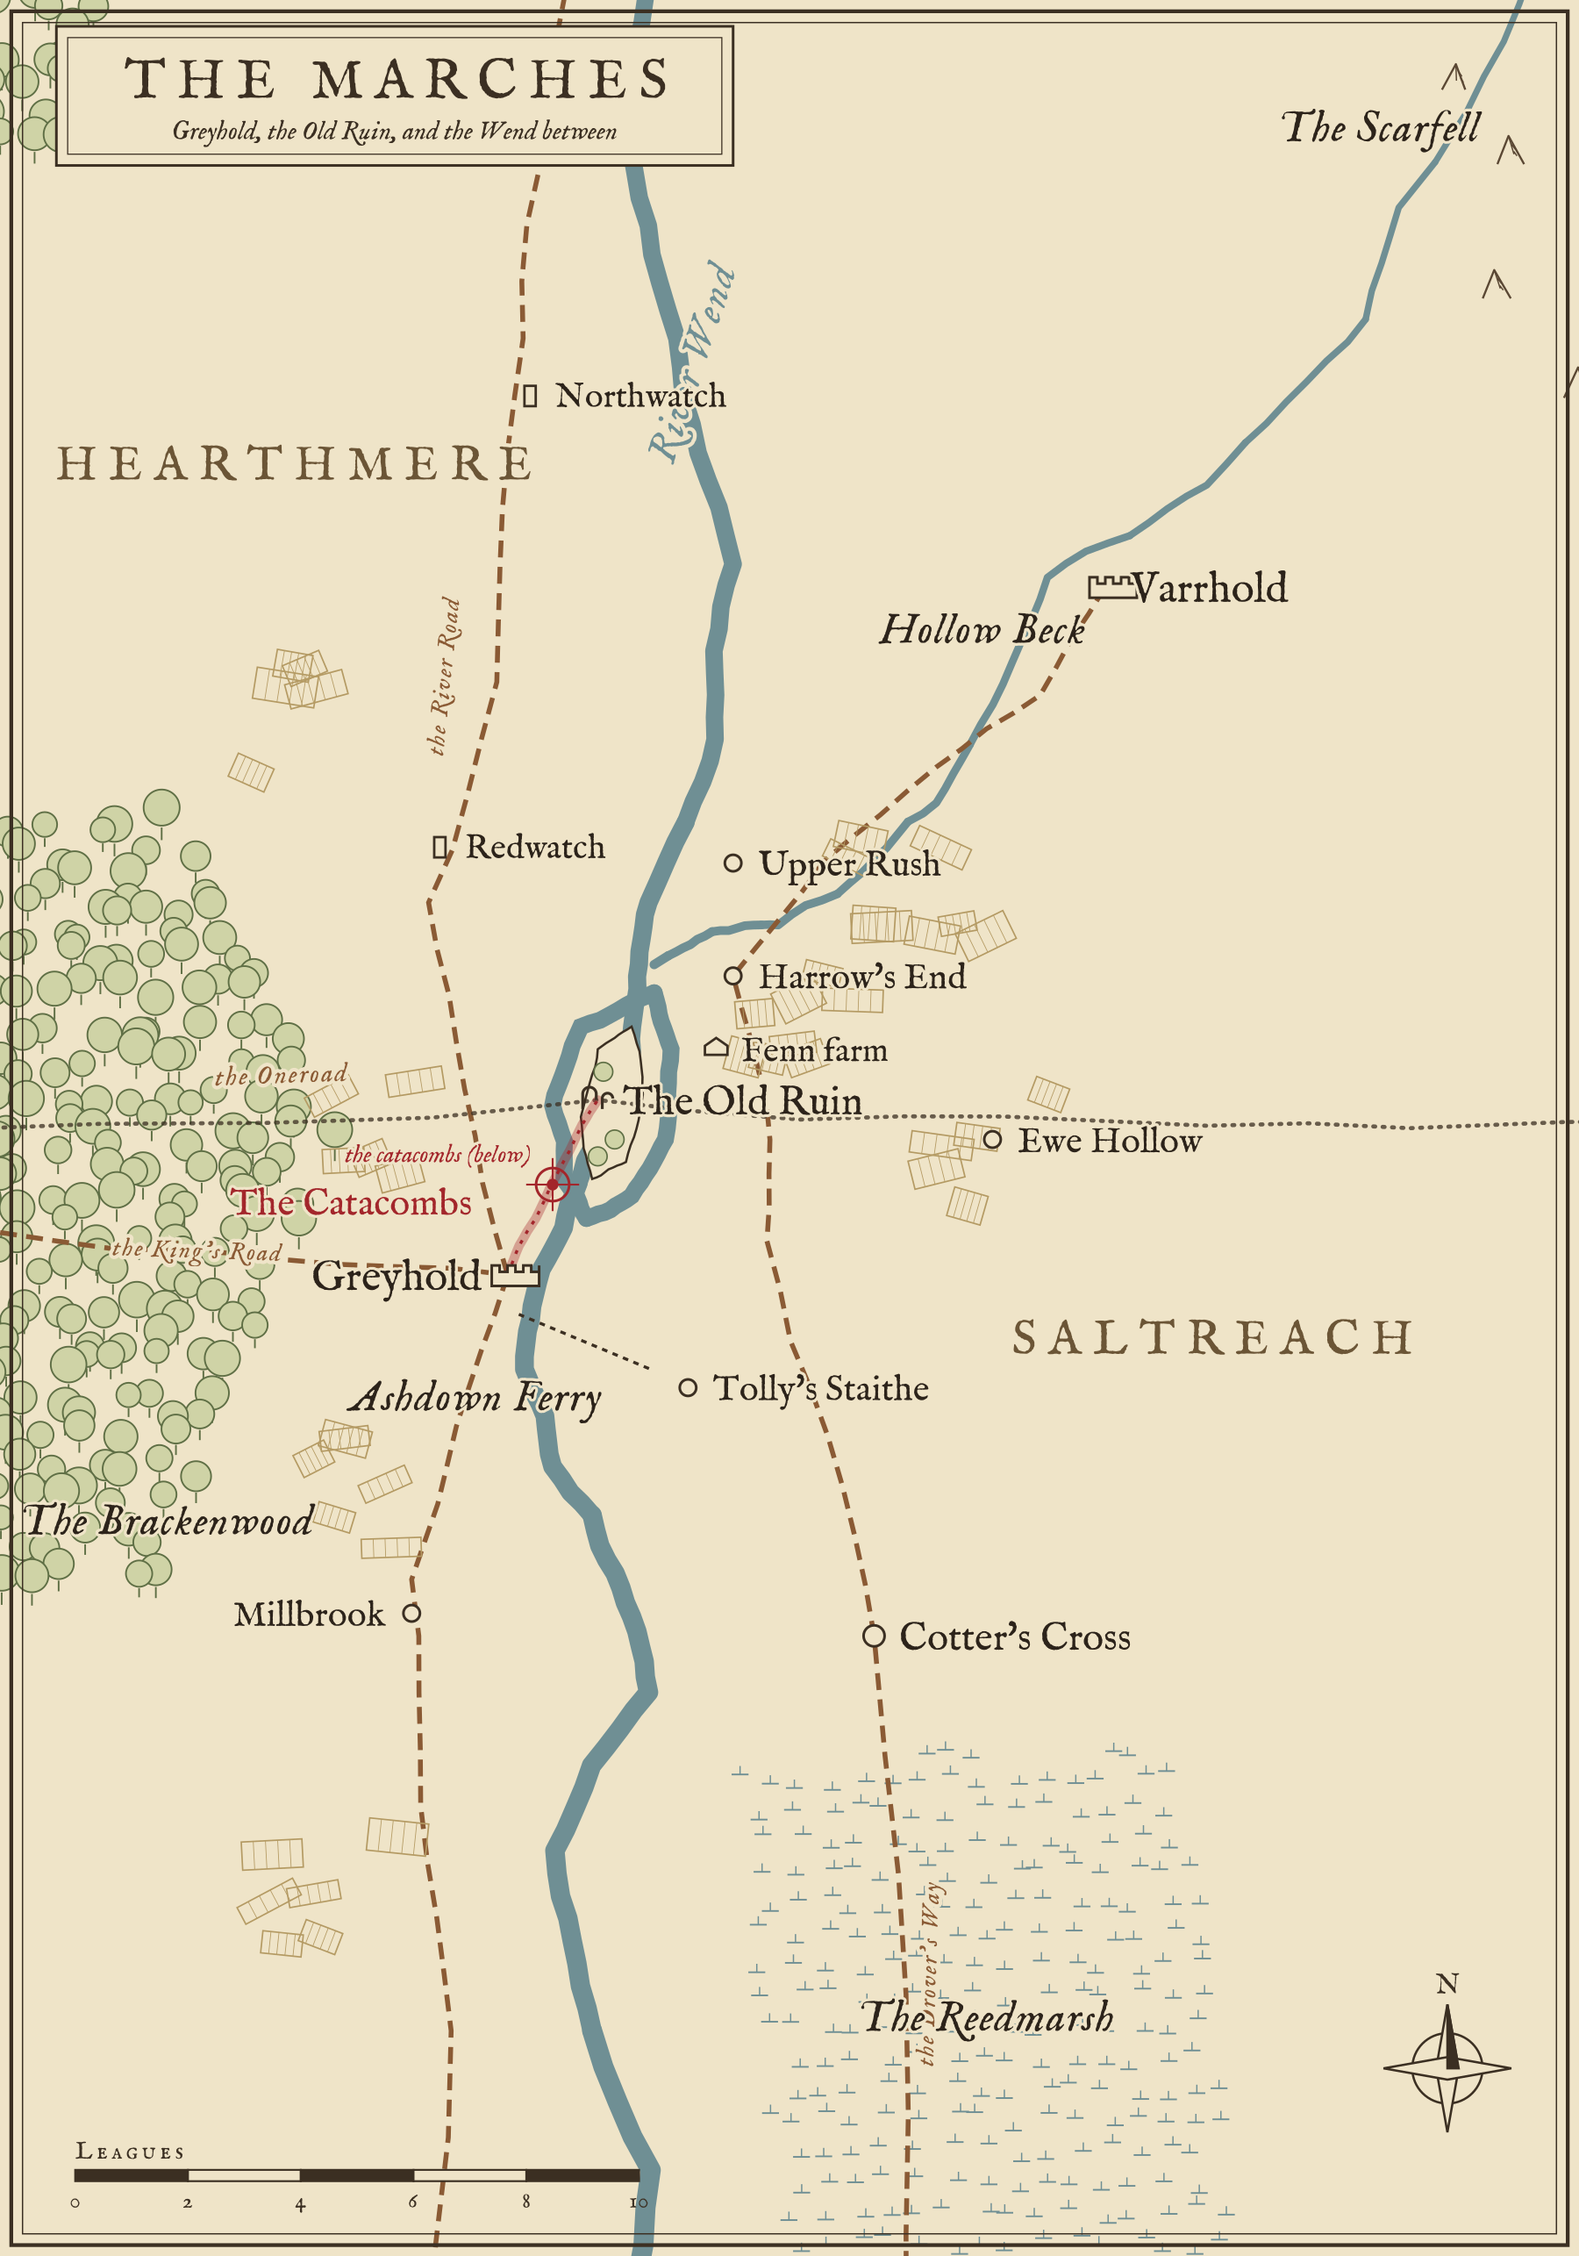
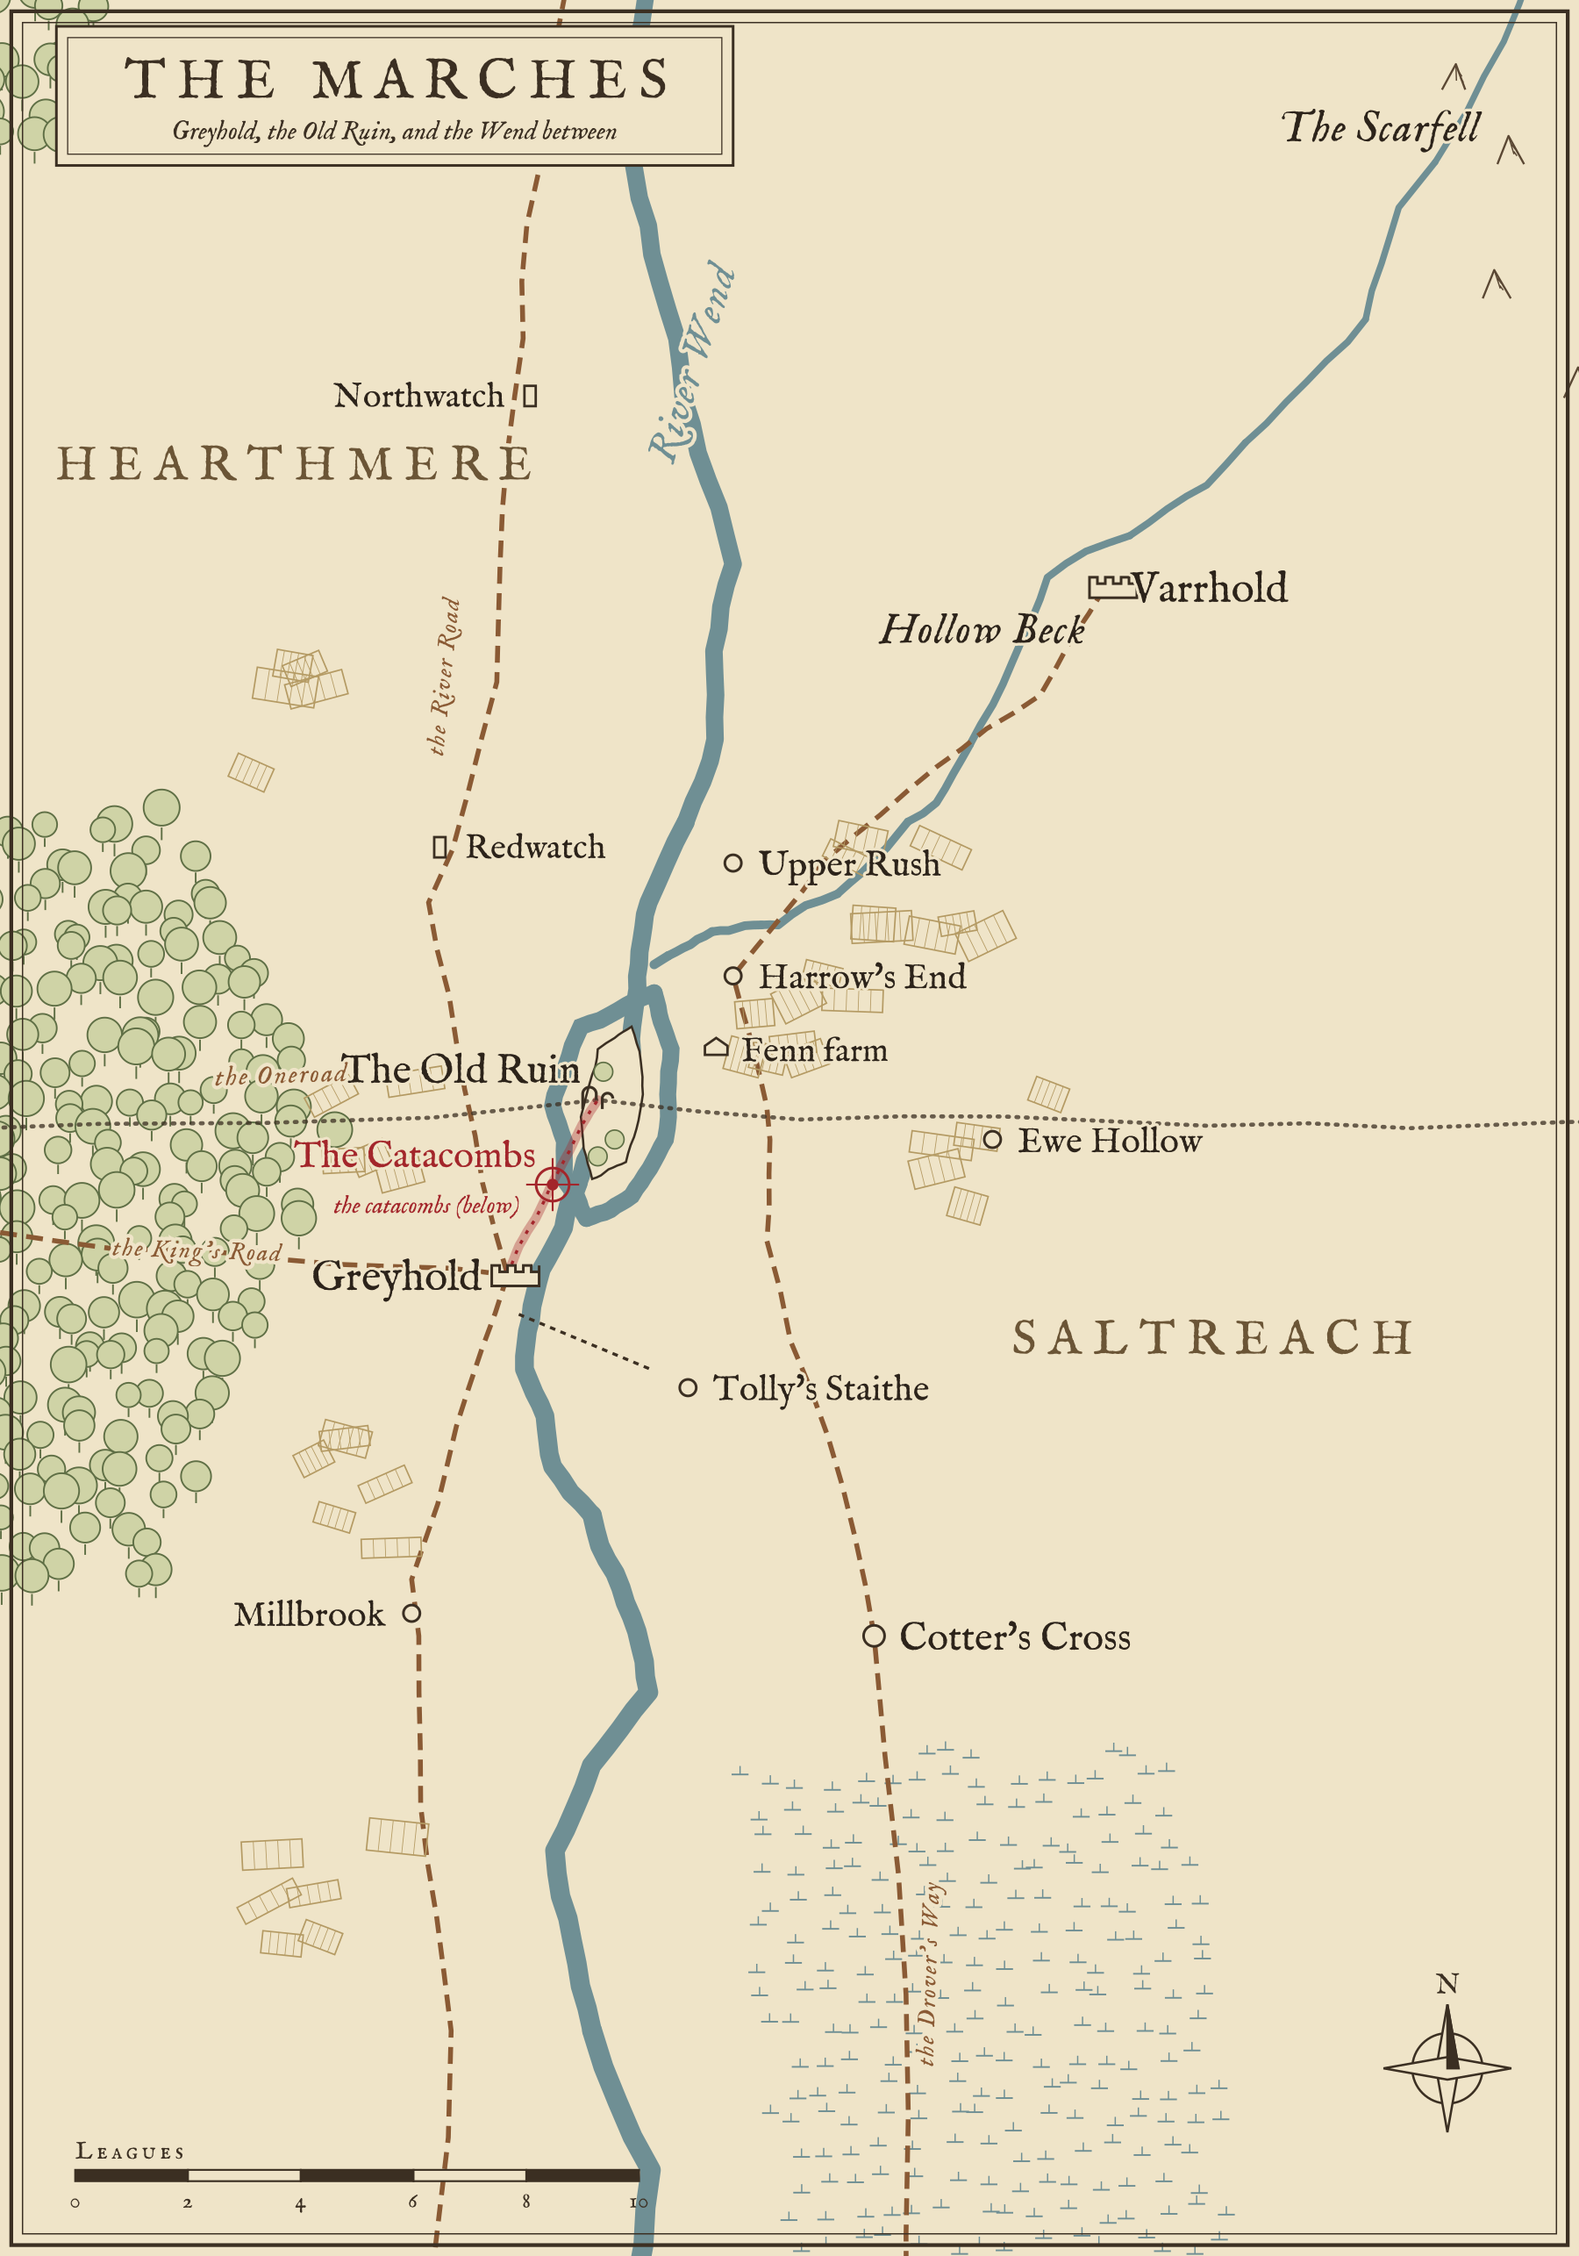
Docs sweep: Series Outline Book 1 parts, Story wording, README index, Publishing length and print; full maps with label placement
Claude-Session: https://claude.ai/code/session_01D7YJ4RRvu1NB66Dqb5J8zo

diff --git a/Bible/Series_Outline.md b/Bible/Series_Outline.md
@@ -35,15 +35,14 @@
 
 ### Working outline
 
-**Part one: two beginnings.** In the border region, the student trains at a Hearthmere knight school: unbonded, underestimated, given hard duties. Across the border on the Saltreach side, the farmer works his family's land in the shadow of the Dragon Clan, where the old chief's death has left his brother, the Clan's best warrior with the larger following, and the chief's two sons circling each other over who should lead. Restoration roadblocks appear on the roads, and people whisper about a leader seen in two places on the same day.
+*The full chapter-by-chapter plan (79 chapters, six parts, one year) is in `Book 1/Chapter_Plan.md`. In short:*
 
-**Part two: the spark.**
-- *The farmer:* the chief's younger son is killed, apparently by the uncle's faction, and the Clan's civil war breaks open. *(Established: it was secretly the Restoration's doing, to gain the dragons.)* The war runs on through the rest of Book 1 with no winner, only damage and casualties. In the battle the three bonded warriors die. Their dragons, torn by the rupture of their bonds and beginning to wither, are drawn to the injured farmer and bond with him almost at once, by accident. He wakes bound to three grieving, enraged dragons. It is a curse before it is anything else, and every faction now wants him.
-- *The student:* sent to investigate a monster at the Old Ruin, the student meets the ancient lion, which was woken by Restoration hunters. Over repeated, dangerous encounters, the student earns its respect through courage and restraint.
-
-**Part three: the hunt.** The Restoration hunts the farmer as proof that one person can hold many bonds, and hunts the lion for its ancient power. The student learns what lies beneath Hearthmere: a Titan in the catacombs, kin to the lion. Hearthmere found it asleep, freed it, chained it, and has lived on its power ever since, and most of its history is built on that secret. **The Restoration exposes it** as part of its case against the regimes; only Hearthmere's rulers and the orders' inner circle knew. *(Working proposal: this is how the student learns it.)*
-
-**Part four: the first war.** The protagonists have heard rumors of each other, but they don't meet until the very end.
+- **Part One: Two Banks** (late summer, chapters 1–12). Maren at Greyhold, unbonded and passed over; Calder on the Saltreach bank under the Dragon Clan, whose old chief has died. Upper Rush is raided for its beasts. Restoration roadblocks; a leader seen in two places on the same day. Teo Varr and the three bonded warriors, alive and particular.
+- **Part Two: Harvest of Knives** (autumn, 13–26). Teo is killed and the Clan's civil war begins; it never resolves in Book 1. Maren's trial on the forbidden island. The three warriors die and their dragons bond with Calder by accident. The lion wakes. Maren fails her trial rather than harm it. Calder is hunted and flees.
+- **Part Three: The Long Autumn** (autumn into winter, 27–40). Maren's disgrace and Hale's slow trust; the lion earned one meeting at a time. Calder's dragons, Crow Scar, Wendmouth and the beast market. Each protagonist sees one of the "leader"'s two faces.
+- **Part Four: The Frozen River** (winter, 41–54). The Wend freezes; near-misses on the ice. The Restoration exposes Hearthmere's secret (45); Hale confirms the chains (49). Joss is killed and Calder finally speaks about the chain (50). Maren understands the lion's kin. The Restoration gathers.
+- **Part Five: Thaw** (early spring, 55–66). Tobin goes over to the Restoration. Orders to trap the lion; Maren breaks her oath. Calder's family crosses on Liss's ferry. Calder goes to the Old Ruin alone.
+- **Part Six: The First War** (spring into summer, 67–79). The ending below.
 
 **Book 1's ending, in order** *(established)*:
 
@@ -57,10 +56,10 @@
 
 **Notes on the ending** (established items marked; the rest are working proposals):
 - *The bond:* the lion's bond with the student forms during the war, through a real sacrifice. It is the climax of the student's arc in Book 1.
-- *The seal* *(established)*: the catacomb seal needs **two locks opened in two places at the same moment**, which is why only twins could do it. Opening the seal and the Titan breaking its chains are two separate beats, with the protagonists' meeting between them. **Each protagonist fights at a different lock,** one twin each, without knowing the other is there. Two locks, two twins, two protagonists: the final battle is fought on two fronts at once.
+- *The seal* *(established)*: the catacomb seal needs **two locks opened in two places at the same moment**, which is why only twins could do it. Opening the seal and the Titan breaking its chains are two separate beats, with the protagonists' meeting between them. **Each protagonist fights at a different lock,** one twin each. They have never met, but Calder's warning reaches Maren before her fight *(established: the cut chain, a strip of cloth with "TWO" burned into it, and Wren's ribbon, carried by Lisska)*. Two locks, two twins, two protagonists: the final battle is fought on two fronts at once.
 - *How the first twin dies* *(established)*: he is **killed fighting a protagonist, just as his lock gives way,** while **the other twin leads the charge at another location**, the second lock. The lock still breaks as he dies, which is why the seal can still open. The surviving twin now has a personal reason to hate the protagonists.
 - *The student kills him* *(established)*. The student fights at the lock nearest the lion's kin, and it is the student's hand that kills the first twin: **Maren kills Cassian Vale**, the public face of the Restoration. **Corvin Vale**, the hidden strategist, opens the Old Ruin's lock against Calder and survives. In that moment **the lion learns that its kin is now a world destroyer.** **The Titan was not always a destroyer: ages in chains made it one.** For the lion, the discovery is grief as much as horror. It came to Hearthmere for its kin and finds what its kin has become. The farmer, meanwhile, fights at the other lock against the twin leading the charge there, and can't stop it opening.
-- *The meeting:* the two protagonists, having fought apart, find each other underground in the catacombs, each with their beast, each the stranger the other has only heard rumors of. Whether they meet as allies, wary strangers, or enemies is open.
+- *The meeting:* the two protagonists, having fought apart, find each other underground in the catacombs, each with their beast, each the stranger the other has only heard rumors of. *(Working proposal:)* they meet as wary strangers who already owe each other: his warning, her name in the ferrywoman's story.
 - *The last image:* the Titan breaks free and **flies**. **The Restoration opened the seal to capture the Titan and bind it to its cause, and loses control of it:** the Titan escapes them and everyone else. The last image of Book 1 is the two protagonists, together for the first time, watching it go. As it leaves, Hearthmere's magic begins to fail, because the kingdom's magic was the chained Titan's harnessed power.
 
 **"The Last Titan"** *(established)*: throughout Book 1, this Titan is known as **the Last Titan**. **To ordinary people it is only a legend:** folk tales speak of the Last Titan sleeping somewhere, and most people think it's myth. Only Hearthmere's rulers and the knightly orders' inner circle know it is real, chained beneath Hearthmere, and powering the kingdom's magic. *(Working proposal: the tales call it the last because people believe it's the last of its kind. Book 2 breaks that belief: it isn't the last, and it is going to free five more. The name becomes the series' first great irony.)*

diff --git a/README.md b/README.md
@@ -7,12 +7,14 @@ The home of the Winshire books: the series bible and the manuscripts. Keep estab
 - **[Bible/World.md](Bible/World.md):** world history, magic, bonds, beasts and Titans, the six kingdoms, factions, and places.
 - **[Bible/Story.md](Bible/Story.md):** the two protagonists, the lion, the dragons, the Dragon Clan, the Restoration, and the themes.
 - **[Bible/Series_Outline.md](Bible/Series_Outline.md):** the three books, the ending, and the next series.
-- **[Bible/Characters.md](Bible/Characters.md):** profiles of the two protagonists, the lion, and the dragons.
+- **[Bible/Characters.md](Bible/Characters.md):** profiles of the two protagonists, the lion, the dragons, and the supporting cast.
 - **[Bible/Bestiary.md](Bible/Bestiary.md):** the creatures of Winshire: animals, beasts, great beasts (dragons, unicorns, the phoenix), wyverns, and the rest, kingdom by kingdom.
 - **[Bible/Atlas.md](Bible/Atlas.md):** the gazetteer and distances that go with the maps.
 - **[Book 1/Chapter_Plan.md](Book%201/Chapter_Plan.md):** the chapter-by-chapter plan for Book 1.
 - **[Book 1/Chapters/](Book%201/Chapters/):** the manuscript, one Markdown file per chapter. Each file starts with its planning notes; the prose goes below the line.
-- **[Book 1/Notes/](Book%201/Notes/):** working notes, drafts of scenes, and research.
+- **[Book 1/Notes/](Book%201/Notes/):** working notes, drafts of scenes, and research (including the voice samples).
+- **[Book 1/Art/](Book%201/Art/):** chapter-opener art (79 pieces) and the maps: bare front-matter maps, the 79 chapter-end map pages, full maps, and the interactive atlas page.
+- **[Tools/](Tools/):** the scripts that generate the chapter plan, the maps and the art. Edit their data files and rebuild rather than editing the outputs by hand.
 - **[Style_Guide.md](Style_Guide.md):** voice, point of view, and conventions for the prose.
 - **[Publishing.md](Publishing.md):** the self-publishing plan (Amazon KDP and IngramSpark).
 

diff --git a/Bible/Story.md b/Bible/Story.md
@@ -34,7 +34,7 @@ The beast remains independent and dangerous after bonding; it is not a tame moun
 
 ### The farmer (Calder) — Dragon Clan strand
 
-The farmer is a farmer outside the Dragon Clan. *Established:* he is **aged 28–36 and has a young daughter.** See `Characters.md` for his proposed name, family, and voice. The Clan lives on the outskirts of the lawless kingdom, currently called Saltreach in these notes. It breeds dragons, keeps them under control, and bonds only with dragons.
+The farmer is a farmer outside the Dragon Clan. *Established:* he is **aged 28–36 and has a young daughter.** See `Characters.md` for his proposed name, family, and voice. The Clan lives on the lawless northern edge of Saltreach, where the League's writ barely reaches. It breeds dragons, keeps them under control, and bonds only with dragons.
 
 The civil war has been brewing since the old chief died. **The war is between the dead chief's brother and the dead chief's two sons:** uncle against nephews, each side claiming the right to lead the Clan.
 
@@ -134,7 +134,7 @@ The two protagonists argue these themes from opposite sides. The student has wor
 - How do the twins differ, and can the protagonists reach or divide them?
 - How does the Restoration plan to reach and control the titan beneath Hearthmere, and does it need the lion or the farmer to do it?
 - How do both protagonists become involved with the Restoration, and when does each first realize what it is?
-- Do the protagonists meet as allies, wary strangers, or enemies at the end of Book 1?
+- Do the protagonists meet as allies, wary strangers, or enemies at the end of Book 1? *(Working proposal: wary strangers who already owe each other; see `Book 1/Chapter_Plan.md`.)*
 - What is the lion-like beast’s name, history, multiplication ability, gift, and reason for being feared?
 - How does the lion's growth into a Titan change Maren, and her bond?
 - How do the dragons' growth to Titan class change the farmer?

diff --git a/Publishing.md b/Publishing.md
@@ -15,6 +15,14 @@
 - **Wide:** ebook in every store, through IngramSpark or other distributors; no Kindle Unlimited.
 The print editions can be sold everywhere either way.
 
+## Book 1's length and print *(working)*
+
+- Book 1 is planned at **79 chapters, roughly 280,000–400,000 words**, with no upper limit.
+- **Print page count:** at a 6 × 9 trim and about 300 words a page, 300,000 words is about **1,000 pages**, before the 79 chapter-end map pages. That's beyond what most print-on-demand services can bind in one paperback (KDP's limit is in the region of 800-odd pages for a standard paperback; check current limits on both KDP and IngramSpark).
+- **Options when the draft is done:** a larger trim (for example 7 × 10) with a smaller type size, around 400–450 words a page; moving the maps to the end of each Part instead of each chapter; a hardcover through IngramSpark, if its limits are higher; or, as a last resort, splitting the book into two volumes at the end of Part Three.
+- Ebooks have no page limit, so the ebook can carry every chapter map.
+- Decide this once the draft's real length is known.
+
 ## From draft to published book
 
 1. **Finish the draft** of Book 1, working from the series outline.
